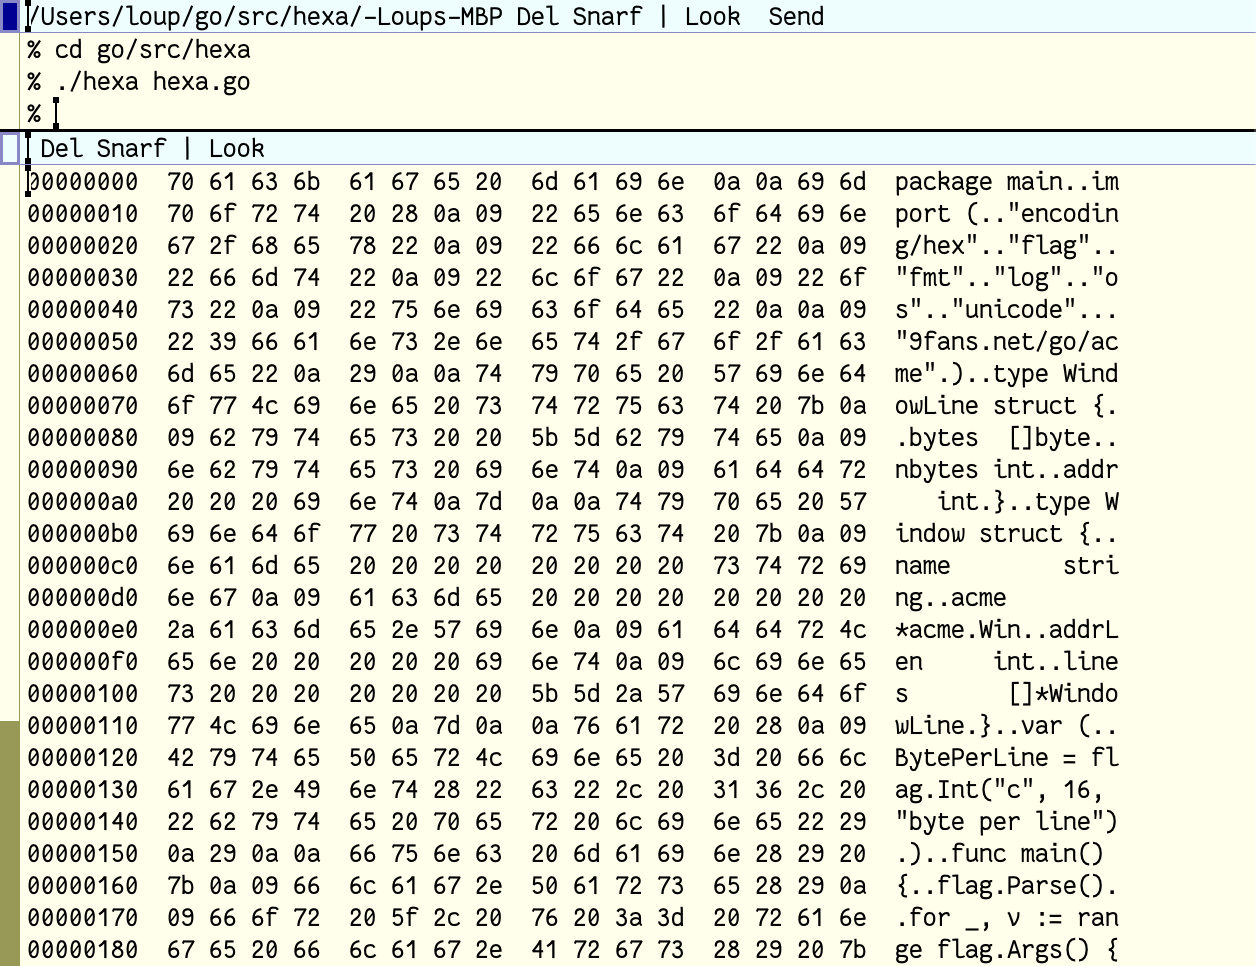
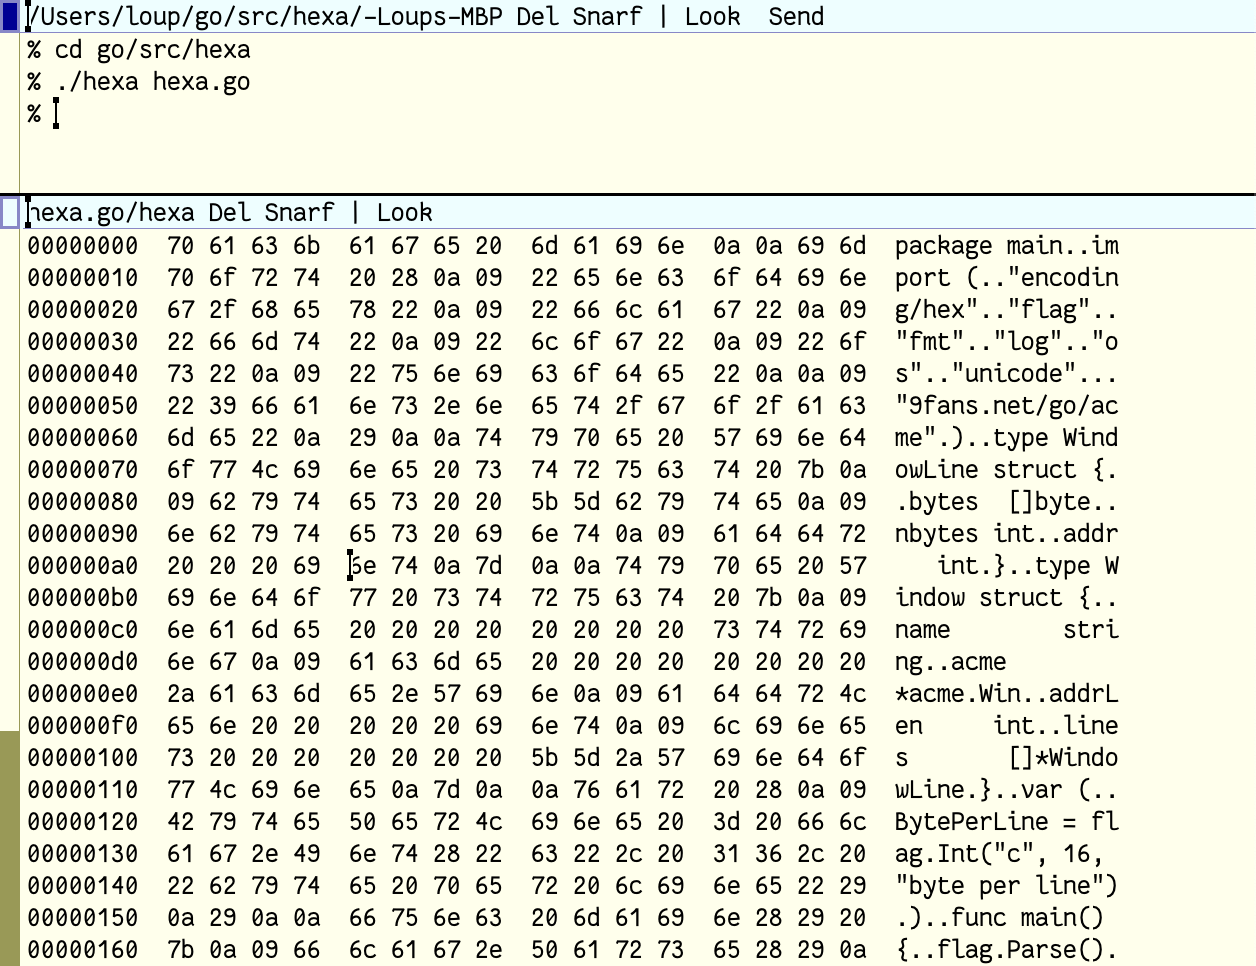
add file name in tag

Changed region(s): [[0.0, 0.1242, 0.9005, 1.0], [0.0621, 0.7143, 0.0932, 0.7764], [0.0, 0.7453, 0.0311, 0.7764]]

diff --git a/hexa.go b/hexa.go
@@ -45,7 +45,6 @@ func newWindow(path string) (*Window, error) {
 		return nil, err
 	}
 	w := &Window{
-		name: path,
 		acme: win,
 		addrLen: 8,
 		lines: []*WindowLine{},
@@ -61,6 +60,10 @@ func newWindow(path string) (*Window, error) {
 			return nil, err
 		}
 		offset += n
+	}
+	// window name
+	if err := w.acme.Ctl("name %s/hexa", path); err != nil {
+		return nil, err
 	}
 	// mark window as clean and go move cursor to first line
 	if err := win.Ctl("clean"); err != nil {
